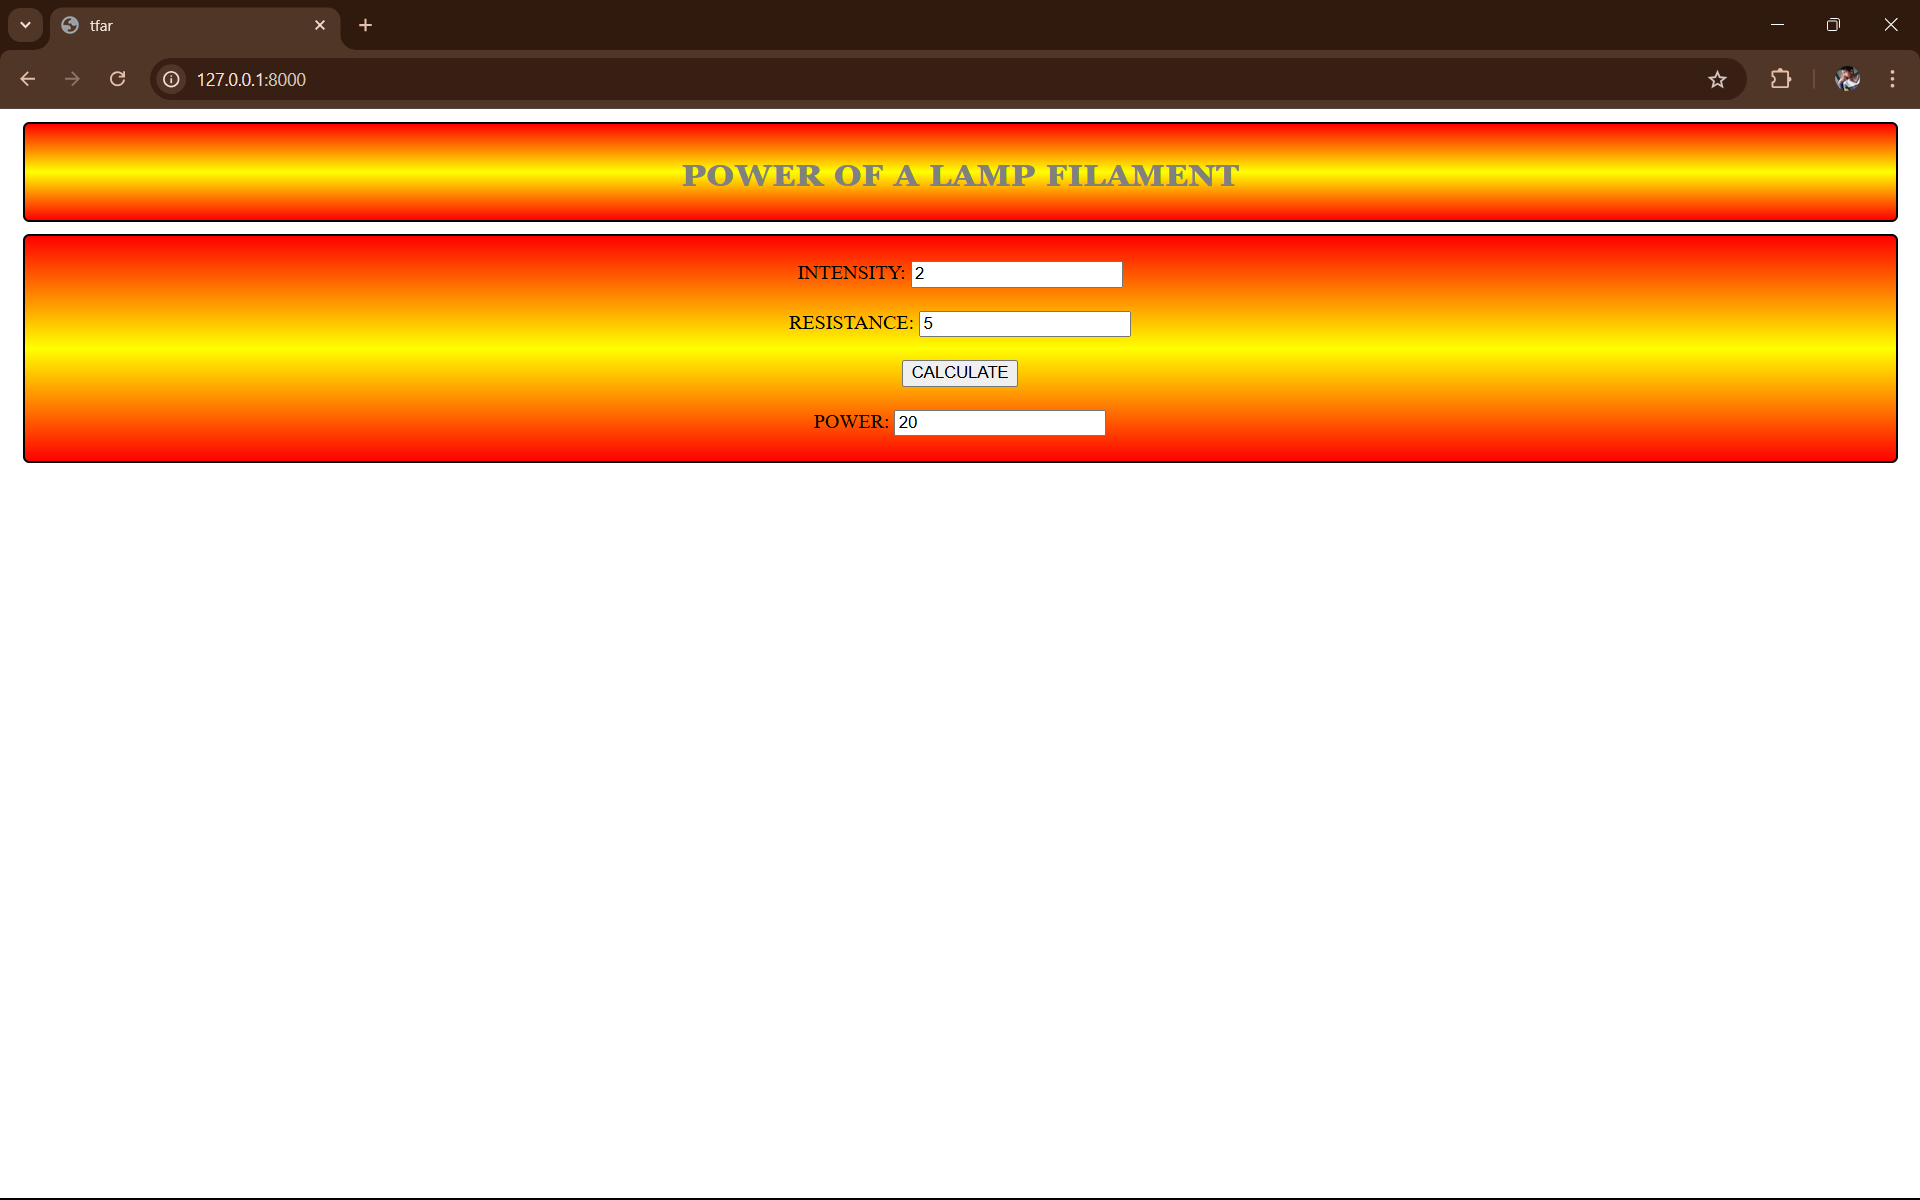
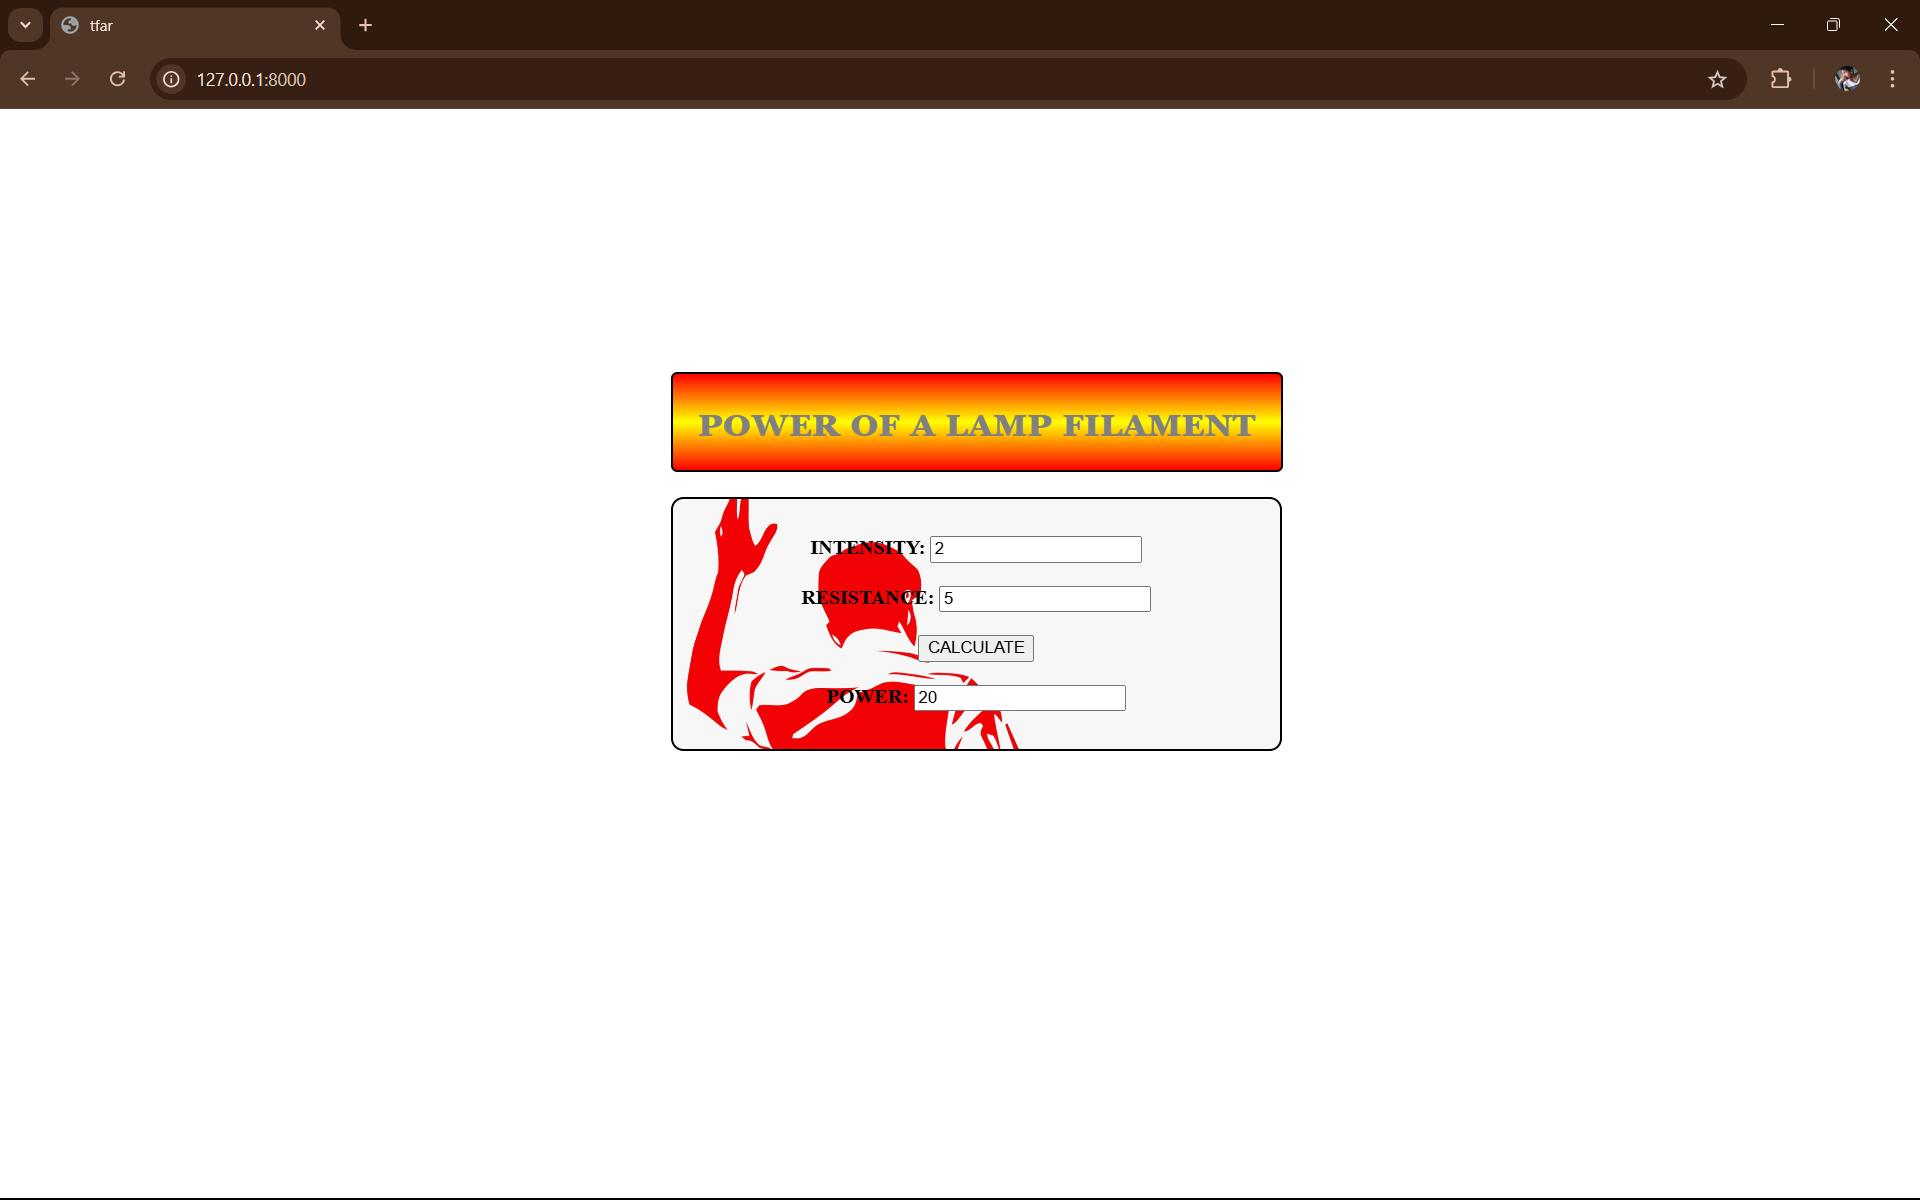
Success

Changed region(s): [[0.0, 0.0925, 1.0, 0.6475]]

diff --git a/vikram/thalaforareason/templates/thalaforareason/tfar.html b/vikram/thalaforareason/templates/thalaforareason/tfar.html
@@ -1,14 +1,17 @@
+{% load static %}
 <html>
 <head>
     <title>tfar</title>
     <style>
-        h1,form{
+        
+h1{
     border: 2px solid black;
     padding: 20px;
     margin: 10px;
     border-radius: 5px;
-}
-h1{
+    position: fixed;
+    top: 200px;
+    right: 500px;
     font-size: xx-large;
     font-weight: bolder;
     font-variant: small-caps;
@@ -17,7 +20,21 @@ h1{
     color: grey;
 }
 form{
-    background: linear-gradient(to bottom,red,yellow,red);
+    border: 2px solid black;
+    background-color: rgba(128, 128, 128, 0.064) ;
+    padding: 30px;
+    margin: 10px;
+    border-radius: 10px;
+    width: 425px;
+    position: fixed;
+    top: 300px;
+    left: 527px;
+    background-image: url("{%static 'images/vijay.jpg' %}");
+    
+    background-size: 60%;
+    background-repeat: no-repeat;
+    background-position: left;
+    
 }
 
     </style>
@@ -29,12 +46,12 @@ form{
      
     <div class="power">
 
-        <label for="INTENSITY">INTENSITY:</label>
+        <label for="INTENSITY"><b>INTENSITY:</b></label>
         <input type="text" name="intensity" id="INTENSITY" placeholder="Enter the Value" value="{{i}}">
     </div>
     <br>
     <div class="power">
-        <label for="RESISTANCE">RESISTANCE:</label>
+        <label for="RESISTANCE"><b>RESISTANCE:</b></label>
         <input type="text" name="resistance" id="RESISTANCE" placeholder="Enter the Value" value="{{r}}">
     </div>
     <br>
@@ -42,7 +59,7 @@ form{
     <br>
     <br>
     <div class="power">
-        <label for="POWER">POWER:</label>
+        <label for="POWER"><b>POWER:</b></label>
         <input type="text" name="POWER" id="POWER" placeholder="Answer" value="{{power}}">
         
     </div>

diff --git a/README.md b/README.md
@@ -36,17 +36,20 @@ Publish the website in the given URL.
 
 tfar.html
 
+{% load static %}
 <html>
 <head>
     <title>tfar</title>
     <style>
-        h1,form{
+        
+h1{
     border: 2px solid black;
     padding: 20px;
     margin: 10px;
     border-radius: 5px;
-}
-h1{
+    position: fixed;
+    top: 200px;
+    right: 500px;
     font-size: xx-large;
     font-weight: bolder;
     font-variant: small-caps;
@@ -55,7 +58,21 @@ h1{
     color: grey;
 }
 form{
-    background: linear-gradient(to bottom,red,yellow,red);
+    border: 2px solid black;
+    background-color: rgba(128, 128, 128, 0.064) ;
+    padding: 30px;
+    margin: 10px;
+    border-radius: 10px;
+    width: 425px;
+    position: fixed;
+    top: 300px;
+    left: 527px;
+    background-image: url("{%static 'images/vijay.jpg' %}");
+    
+    background-size: 60%;
+    background-repeat: no-repeat;
+    background-position: left;
+    
 }
 
     </style>
@@ -67,12 +84,12 @@ form{
      
     <div class="power">
 
-        <label for="INTENSITY">INTENSITY:</label>
+        <label for="INTENSITY"><b>INTENSITY:</b></label>
         <input type="text" name="intensity" id="INTENSITY" placeholder="Enter the Value" value="{{i}}">
     </div>
     <br>
     <div class="power">
-        <label for="RESISTANCE">RESISTANCE:</label>
+        <label for="RESISTANCE"><b>RESISTANCE:</b></label>
         <input type="text" name="resistance" id="RESISTANCE" placeholder="Enter the Value" value="{{r}}">
     </div>
     <br>
@@ -80,7 +97,7 @@ form{
     <br>
     <br>
     <div class="power">
-        <label for="POWER">POWER:</label>
+        <label for="POWER"><b>POWER:</b></label>
         <input type="text" name="POWER" id="POWER" placeholder="Answer" value="{{power}}">
         
     </div>
